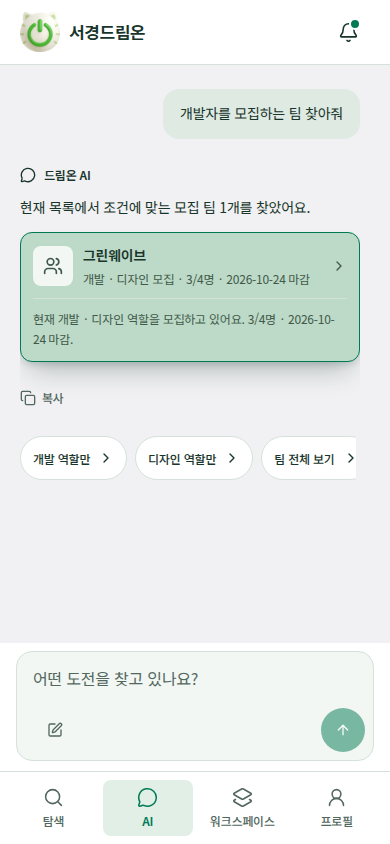
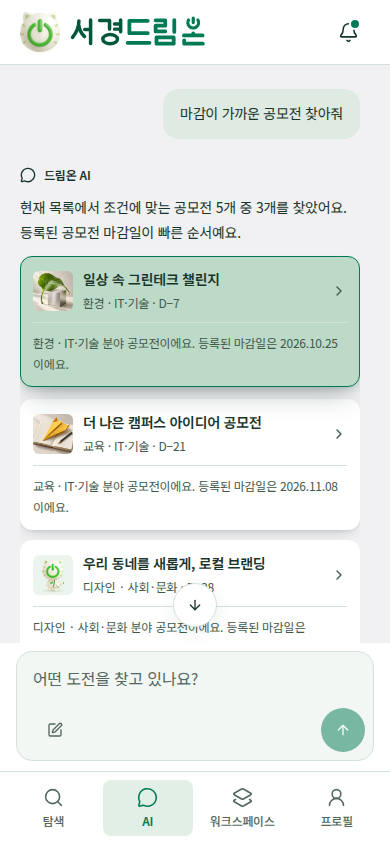
docs(design): update policy handoff and verified mobile references

diff --git a/docs/design/screens.md b/docs/design/screens.md
@@ -2,7 +2,7 @@
 
 경로의 공통 접두사는 `/design-preview`이며 로컬 기준 주소는 `http://127.0.0.1:5174`입니다. 경로의 모양이 제품의 최종 URL을 확정하지는 않습니다. 전체 화면 연결은 [라우트 원본](../../design-reference/src/pages/DesignPreviewPage.tsx), 공통 상단·하단 탐색은 [PreviewShell](../../design-reference/src/features/design-preview/PreviewShell.tsx)에서 확인합니다.
 
-프로필 전체 공개·지원 팀장 예외와 AI 로그인 전용 정책은 [정책 문서 PR #75](https://github.com/wejo-team/sku-dreamon/pull/75)에 정리되어 있으며 아직 병합 전입니다. 아래 화면은 그 정책을 반영한 참고 구현으로, 실제 제품 개발의 선행 정책 검토로 함께 확인합니다.
+[선행 문서 PR #93](https://github.com/wejo-team/sku-dreamon/pull/93)과 [#77 최신 결정](https://github.com/wejo-team/sku-dreamon/issues/77#issuecomment-6260435650)의 정책을 기준으로 화면을 갱신합니다. 아래 내용은 현재 저장소의 참고 구현과 확인할 동작이며, 서버·실제 AI·영구 저장 또는 배포 검증 완료를 뜻하지 않습니다.
 
 탐색·AI·워크스페이스·내 프로필 보기의 루트 제목은 하단 탐색과 중복되므로 `h1.sr-only`로 유지하고 화면 공간은 사용하지 않습니다. 공모전·팀·지원자 상세 제목과 `프로필 수정` 제목은 표시합니다. 로그인 안내와 필요한 복귀 링크도 유지합니다.
 
@@ -10,22 +10,22 @@
 
 | 화면·경로 | 코드 원본 | 구현할 정책·완료 조건 |
 | --- | --- | --- |
-| 로그인·가입 `/login`, `/signup` | [AccountPages](../../design-reference/src/features/design-preview/AccountPages.tsx) | [인증 AC-04~14](../specs/authentication.md#acceptance-criteria): 자체 로그인·교내 미인증·로그인 후 행동·접근 권한. 레퍼런스 로그인은 모의 동작 |
-| 공모전 탐색 `/explore` | [ExplorePages](../../design-reference/src/features/design-preview/ExplorePages.tsx), [ExploreFilters](../../design-reference/src/features/design-preview/ExploreFilters.tsx) | [공고 명세](../specs/contests.md): 왼쪽 세로 포스터·D-day, 오른쪽 제목·분야·주최자와 우하단 팀 아이콘·모집 중 팀 수. 카드 전체로 상세 이동. 검색·필터·번호 페이지·빈 결과, 분야는 아이콘으로 여는 Drawer에서 선택·적용 |
-| 공모전 상세 `/contests/:contestId` | [ExplorePages](../../design-reference/src/features/design-preview/ExplorePages.tsx) | [공고 공개·참가·마감 정책](../specs/contests.md): 원문·참가 방식·인원·일정·제출물·미확인 정보, 해당 공모전의 팀을 상세 안에 바로 표시. 생성(+)/AI 아이콘, 열린 공고의 빈 팀 안내, 마감 시 생성·AI 숨김 |
+| 로그인·가입 `/login`, `/signup` | [AccountPages](../../design-reference/src/features/design-preview/AccountPages.tsx) | [인증 완료 조건](../specs/authentication.md#acceptance-criteria): 아이디 4~24자 ASCII 소문자/숫자 정규화, 비밀번호 NFC 15~128자·공백 보존·보기/숨기기·붙여넣기. 교내 미인증·접근 권한; 실제 계정 발급은 없음 |
+| 공모전 탐색 `/explore` | [ExplorePages](../../design-reference/src/features/design-preview/ExplorePages.tsx), [ExploreFilters](../../design-reference/src/features/design-preview/ExploreFilters.tsx) | [공고 명세](../specs/contests.md): 왼쪽 세로 포스터·D-day, 오른쪽 제목·분야·주최자와 우하단 팀 아이콘·모든 연결 팀 수. 카드 전체로 상세 이동. 검색·필터·번호 페이지·빈 결과, 분야는 아이콘으로 여는 Drawer에서 선택·적용 |
+| 공모전 상세 `/contests/:contestId` | [ExplorePages](../../design-reference/src/features/design-preview/ExplorePages.tsx) | [공고 공개·참가·마감 정책](../specs/contests.md): 원문·참가 대상·최소/최대 인원·일정·제출물·미확인 정보, 해당 공모전의 팀을 상세 안에 바로 표시. 생성(+)/AI 아이콘, 열린 공고의 빈 팀 안내, 마감 시 생성·AI 숨김 |
 | 팀 탐색 `/explore?tab=teams` | [ExplorePages](../../design-reference/src/features/design-preview/ExplorePages.tsx) | [팀 AC-01](../specs/team-recruitment.md#acceptance-criteria): 모집 역할·정원·상태·공모전별 탐색과 번호 페이지 |
 | 공개 모집글 `/teams/:teamId` | [WorkspacePages](../../design-reference/src/features/design-preview/WorkspacePages.tsx) | [팀 AC-03~07·15·18·26](../specs/team-recruitment.md#acceptance-criteria): 지원·필수 프로필 보완·메시지·마감·중복·취소 후 재지원 |
-| 팀 만들기 `/teams/new` | [CreateTeamPage](../../design-reference/src/features/design-preview/CreateTeamPage.tsx), [ContestPicker](../../design-reference/src/features/design-preview/ContestPicker.tsx) | [팀 AC-02·13·16·22~24](../specs/team-recruitment.md#acceptance-criteria): 공모전 검색 선택, 목표·역할·팀장 포함 정원·마감·공식 인원 범위·개인 전용 준비 팀 |
+| 팀 만들기 `/teams/new` | [CreateTeamPage](../../design-reference/src/features/design-preview/CreateTeamPage.tsx), [ContestPicker](../../design-reference/src/features/design-preview/ContestPicker.tsx) | [팀 생성·정원 정책](../specs/team-recruitment.md#acceptance-criteria): 공모전 검색 선택, 팀명 2~40자·소개 10~1,000자·역할 1~6개, 모든 팀의 공식 인원 범위. 분야는 공모전 상속, 범위 정원 기본값 없음, 정원 1명은 역할/추가 모집 생략. 준비 모임 예외 없음 |
 | 워크스페이스 `/workspace` | [WorkspacePages](../../design-reference/src/features/design-preview/WorkspacePages.tsx) | [팀 공간 접근](../specs/team-recruitment.md#team-workspace-access): 본인이 팀장이거나 현재 확정 팀원인 팀과 빈 상태. 내 팀·내 지원 콘텐츠 제목과 개수, 작업 아이콘을 한 줄에 배치하고 팀 카드 전체를 눌러 팀 공간 이동 |
 | 내 지원 `/workspace?view=applications` | [WorkspacePages](../../design-reference/src/features/design-preview/WorkspacePages.tsx) | [팀 AC-04·17~18](../specs/team-recruitment.md#acceptance-criteria): 현재 지원 상태·선발 후 취소·자리 반환·재지원 |
 | 팀 공간 `/teams/:teamId?view=space` | [WorkspacePages](../../design-reference/src/features/design-preview/WorkspacePages.tsx) | [팀 AC-09·13·20·25](../specs/team-recruitment.md#acceptance-criteria): 팀장·현재 팀원만 접근, 확정 인원·남은 자리·공고·모집 상태 |
 | 지원자 관리 `/teams/:teamId?view=applicants` | [WorkspacePages](../../design-reference/src/features/design-preview/WorkspacePages.tsx) | [팀 AC-05·14·16](../specs/team-recruitment.md#acceptance-criteria): 해당 팀장만 실제 지원자 검토·선발. 선발 성공 즉시 팀원 확정 |
 | 지원자 검토 `/applicants/:applicantId` | [WorkspacePages](../../design-reference/src/features/design-preview/WorkspacePages.tsx) | [프로필 공개 정책](../specs/profile.md#visibility), [팀 선발 정책](../specs/team-recruitment.md#membership-capacity): 지원한 팀장이 공개 상태와 관계없이 전체 현재 프로필을 확인. 일반 팀원은 이 예외를 갖지 않음 |
-| 내 프로필 `/profile` | [AccountPages](../../design-reference/src/features/design-preview/AccountPages.tsx), [ProfileFields](../../design-reference/src/features/design-preview/ProfileFields.tsx) | [프로필 AC-01·06·20~25](../specs/profile.md#acceptance-criteria): 학사·역량·경험·시간 입력, 단일 포트폴리오 URL·제목, 전체 프로필 공개 스위치와 전환 확인, 선택형 마스코트 이미지 |
+| 내 프로필 `/profile` | [AccountPages](../../design-reference/src/features/design-preview/AccountPages.tsx), [ProfileFields](../../design-reference/src/features/design-preview/ProfileFields.tsx) | [프로필 완료 조건](../specs/profile.md#acceptance-criteria): 학적·학년 선택, 이름/소개/경험/제목 길이·관심/역할 개수, 기타 제거, 주당 합산 시간 4구간 단일 선택, 전체 공개 전환 확인·기존 지원자 최신 프로필 검토, 선택형 마스코트 |
 | 본인 공개 화면 확인 `/profile/public` | [AccountPages](../../design-reference/src/features/design-preview/AccountPages.tsx) | [사람 탐색과 공개 설정](../specs/profile.md#people-directory): 본인이 설정한 공개 결과 확인 |
-| 사람 탐색·상세 `/explore?tab=people`, `/people/:personId` | [ExplorePages](../../design-reference/src/features/design-preview/ExplorePages.tsx) | [프로필 AC-08~12·23~24](../specs/profile.md#acceptance-criteria): `함께할 사람`에서 로그인 후 공개 프로필 검색·번호 페이지·전체 등록 항목 열람. 비공개 프로필의 일반 검색·AI 결과·직접 상세 접근 제외. 지원자 관계와 구분 |
-| AI `/ai` | [AiChatPage](../../design-reference/src/features/design-preview/AiChatPage.tsx) | [LLM 추천 AC-16~25](../specs/matching.md#acceptance-criteria): 로그인 후 자연어 입력·결과·후속 조건·중단·실패·재시도·빈 결과. 실제 LLM은 미구현 |
-| 상단 알림함 · 별도 경로 없음 | [Notifications](../../design-reference/src/features/design-preview/Notifications.tsx) | [알림 AC-01~06](../specs/notifications.md): 읽음·미읽음·모두 읽음·소유 관계·관련 화면 이동 |
+| 사람 탐색·상세 `/explore?tab=people`, `/people/:personId` | [ExplorePages](../../design-reference/src/features/design-preview/ExplorePages.tsx) | [사람 탐색 공개 정책](../specs/profile.md#acceptance-criteria): `함께할 사람`에서 로그인 후 공개 프로필 검색·번호 페이지·전체 등록 항목 열람. 비공개 프로필의 일반 검색·AI 결과·직접 상세 접근 제외. 지원자 관계와 구분 |
+| AI `/ai` | [AiChatPage](../../design-reference/src/features/design-preview/AiChatPage.tsx) | [LLM 추천 완료 조건](../specs/matching.md#acceptance-criteria): 로그인 후 메시지 최대 1,000자·답변 카드 합계 최대 3개·추가 요청·중단·실패·재시도·빈 결과. 기존 지원자 최신 검토와 일반 사람 추천 권한 구분. 실제 LLM은 미구현 |
+| 상단 알림함 · 별도 경로 없음 | [Notifications](../../design-reference/src/features/design-preview/Notifications.tsx) | [알림 완료 조건](../specs/notifications.md): 업무 변경별 생성·중복 방지·이전 이력·읽음·모두 읽음·수신자 관계·관련 화면 이동·뒤로 가기로 닫기. 마감 알림 제외 |
 | 시작·없는 경로 `/loading`, 정의되지 않은 주소 | [LoadingPage](../../design-reference/src/features/design-preview/LoadingPage.tsx), [라우트](../../design-reference/src/pages/DesignPreviewPage.tsx) | 시작 안내와 찾을 수 없는 대상·경로에서 탐색으로 돌아가기 |
 
 UI에서 확인할 수 있는 흐름과 명세 전체의 구현 완료는 다릅니다. 특히 API 오류·서버 권한·동시 선발·영구 저장은 레퍼런스의 로컬 상태만으로 검증되지 않습니다.
@@ -44,18 +44,20 @@ UI에서 확인할 수 있는 흐름과 명세 전체의 구현 완료는 다릅
 | 프로필 공개 → 미리보기 | 상단 `공개`/`비공개` 스위치의 접근성 이름은 `프로필 공개`. 양방향 전환에서 검색·전체 항목 노출과 지원 팀장 예외를 설명하는 Drawer를 열고 `공개로 전환`/`비공개로 전환` 확인 후 저장. 취소·Escape·바깥 닫기는 기존 상태 유지. 눈 아이콘의 `공개된 모습 보기`는 `/profile/public`으로 이동하며 비공개 상태도 그대로 보여줌 |
 | 프로필 이미지 선택 | 큰 장식 제목을 두지 않고 `마음에 드는 파워프렌즈를 골라보세요.`를 작은 설명으로 표시. `프로필 이미지 변경` Drawer 제목은 `sr-only`로 유지하며 선택·적용·취소와 포커스 복귀 확인 |
 | 학교 인증 안내 | 내 프로필의 빨간 `교내 미인증` 배지를 누르면 미제공 기능 안내 Drawer 표시. 확인·Escape·바깥 영역 닫기와 배지 포커스 복귀 제공. 파란 `교내 인증` 배지 스타일은 후속 인증 상태용으로 준비하며 현재 계정에 인증을 부여하지 않음 |
-| 지원 → 내 지원 | 로그인 안내, 필수 프로필 보완 후 원래 흐름 복귀, 선택 메시지, 중복·마감·정원 부족, 접수 후 현재 지원 표시 |
-| 팀장 검토 → 선발 | 해당 팀장 권한, 비공개라도 등록한 전체 현재 프로필 표시, 지원 메시지의 본인·지원 팀장 제한, 일반 팀원의 비공개 프로필 접근 제한, 선발 즉시 멤버 반영·남은 자리 감소, 마지막 자리·공모전별 소속 제한 |
+| 지원 → 내 지원 | 로그인·공개 필수·필수 프로필 점검. 비공개는 공개 범위 팝업 확인·저장 후 조건 재확인, 자동 지원 없음. 학적/학년은 선택, 자격 정보 부족은 원문 확인 안내 후 일반 접수. 선택 메시지 1,000자와 중복·마감·정원·소속 제한 유지 |
+| 팀장 검토 → 선발 | 해당 팀장 권한, 비공개라도 등록한 전체 현재 프로필 표시, 최신 프로필 기반 AI 검토와 지원 메시지의 본인·지원 팀장 제한, 일반 팀원의 비공개 접근 제한, 선발 즉시 멤버 반영·남은 자리 감소, 마지막 자리·공모전별 소속 제한 |
 | 선발 후 취소 → 재지원 | 팀 공간 접근 종료·자리 반환, 과거 선발 복원 없이 새 지원, 현재 모집 종료·정원 조건 재확인 |
 | AI → 추천 카드 → 상세 | 로그인 후에만 대화·입력·결과 제공. 비로그인 직접 주소·로그아웃 뒤에는 로그인 안내이며 이전 대화·입력 제거. 준비 중·중단·오류·재시도·결과 없음, 공개 정보 제한, 다시 돌아왔을 때 대화 유지. 이전 카드 표시·복사에도 현재 공개 범위·모집 상태·마감·정원 반영, 입력창과 하단 영역의 겹침 |
-| AI → 새 대화 | 입력창 왼쪽 도구 아이콘으로 시작. 접근성 이름·title은 `새 대화`, `type="button"`으로 전송과 분리하며 대화·입력 초안 초기화 동작 유지 |
-| 알림 → 관련 화면 | 알림함 열기만으로 읽음 처리하지 않음, 개별/모두 읽음, 빈 상태, 비로그인에 개인 항목 비노출. 읽음 실패 시 개수와 미읽음 상태 유지, 같은 동작 재시도 후 관련 화면 이동 |
+| AI → 새 대화 | 입력창 왼쪽 도구 아이콘으로 시작. 접근성 이름·title은 `새 대화`, `type="button"`으로 전송과 분리하며 대화·입력 초안 초기화 동작 유지. 과거 대화 목록·검색·다시 열기 없음 |
+| 알림 → 관련 화면 | 지원 상태 변경/신규 지원 두 계열. 성공한 업무 변경에서 수신자별 한 번 생성, 재시도 중복 없음, 다음 변경은 새 미읽음으로 추가·이전 읽음 유지. 열기만으로 읽음 처리하지 않음. 뒤로 가기·닫기는 알림함만 닫기, 항목 클릭은 최신 권한 재확인. 실패 시 읽음·개수 유지 후 재시도 |
 
 반응형 확인은 320px·390px·430px 모바일 폭을 기준으로 합니다. 팝업 포커스·닫기·키보드, 긴 제목·설명, 큰 글꼴, 안전 영역과 세로 스크롤을 함께 검토합니다. 테스트 결과·스크린샷은 검증한 커밋과 함께 PR에 연결합니다.
 
-공개 사람 상세·본인 공개 미리보기·지원자 상세의 등록 항목은 [ProfileDetails](../../design-reference/src/features/design-preview/ProfileDetails.tsx)를 함께 참고합니다. 학사 정보·관심·역량·경험·자기소개·활동 가능 시간·포트폴리오 URL/제목을 같은 정보 계층으로 표시합니다. 인증 정보나 미수집 연락처를 공개 항목으로 추가하지 않습니다. 비공개 프로필도 지원받은 팀장은 전체 현재 정보를 보지만 일반 검색에 포함하지 않으며, 실제 LLM에 비공개 데이터를 전송하는 권한을 뜻하지 않습니다.
+공개 사람 상세·본인 공개 미리보기·지원자 상세의 등록 항목은 [ProfileDetails](../../design-reference/src/features/design-preview/ProfileDetails.tsx)를 함께 참고합니다. 학사 정보·관심·역량·경험·자기소개·주당 참여 가능 시간·포트폴리오 URL/제목을 같은 정보 계층으로 표시합니다. 인증 정보나 미수집 연락처를 공개 항목으로 추가하지 않습니다. 기존 지원을 받은 팀장은 비공개 전환 후에도 전체 현재 프로필을 직접 보고 해당 지원의 AI 검토에 최신 정보를 반영할 수 있습니다. 일반 검색·AI 사람 추천에는 제외하며 지원서·요약·과거 공개 정보로 우회 노출하지 않습니다. 실제 모델 입력 필드·보존/삭제 방식은 후속 설계입니다.
 
-공모전 탐색 카드는 왼쪽 40%를 세로 포스터 영역으로 사용하고 이미지 아래에 별도 문구를 두지 않습니다. 원본 이미지를 자르지 않으며 제목이 길어지면 카드 높이를 늘립니다. 오른쪽은 제목·분야·주최자 순으로 배치하고 우하단의 팀 아이콘·숫자로 현재 모집 중인 팀 수를 표시합니다. 접근성 이름에는 `모집 중인 팀 N개`를 포함합니다. 별도 상세보기 문구·화살표, 참가 대상·접수 마감 정보 행은 두지 않습니다. D-day는 포스터 위에 유지하고 정확한 마감일·참가 대상은 상세에서 확인합니다. 카드 전체의 클릭·키보드 이동과 녹색 hover·포커스·누름 상태를 유지합니다.
+프로필의 주당 시간은 모든 참여 프로젝트 합산 참고값이며 네 구간(`5시간 미만`, `5~10시간 미만`, `10~20시간 미만`, `20시간 이상`) 중 단일 선택입니다. 미입력은 최저 구간과 구분하며 팀별 약속·잔여 시간이 아닙니다. 학적·학년은 선택, 관심 1~3개·역할 1~2개, 이름 50자·소개 300자·경험 500자·포트폴리오 제목 50자를 검증하고 초과 입력을 보존합니다. 기타와 보충 입력은 제거합니다. 학사 종속값은 같은 관계의 유효값을 유지하고 다른 소속 관계의 값만 초안에서 비우며 취소하면 이전 저장값을 유지합니다. 실제 학사 식별자·관계 전수 검증은 별도입니다.
+
+공모전 탐색 카드는 왼쪽 40%를 세로 포스터 영역으로 사용하고 이미지 아래에 별도 문구를 두지 않습니다. 원본 이미지를 자르지 않으며 제목이 길어지면 카드 높이를 늘립니다. 오른쪽은 제목·분야·주최자 순으로 배치하고 우하단의 팀 아이콘·숫자로 모집 상태와 관계없이 공모전에 연결된 모든 팀 수를 표시합니다. 접근성 이름에는 `연결된 팀 N개`를 포함합니다. 별도 상세보기 문구·화살표, 참가 대상·접수 마감 정보 행은 두지 않습니다. D-day는 포스터 위에 유지하고 정확한 마감일·참가 대상은 상세에서 확인합니다. 카드 전체의 클릭·키보드 이동과 녹색 hover·포커스·누름 상태를 유지합니다.
 
 키·값 정보는 공모전 상세, 팀 목록·공간, 내 프로필·공개 프로필·지원자 검토에서 같은 [정보 계층](tokens.md)을 사용합니다. 워크스페이스 팀 카드는 내 역할과 확정 인원/정원으로 요약하고, 중복되는 `팀장 포함 총 N명` 안내는 생략합니다. 요약 옆 화살표는 별도 버튼이 아니며 카드 링크의 일부입니다. 팀 만들기·모집 상세의 정원 안내와 팀장 포함 정원 계산 정책은 유지합니다.
 
@@ -68,16 +70,16 @@ UI에서 확인할 수 있는 흐름과 명세 전체의 구현 완료는 다릅
 | 항목 | 결정 원본 |
 | --- | --- |
 | LLM 모델·제공자·검색·실행·검증·API·저장·캐시·운영 제한 | [MATCH-12](../specs/matching.md#open-questions) |
-| 비공개 정보의 모델 전송·추천 사용, 대화 보존·삭제·철회 후 재노출 방지 | [MATCH-10·13](../specs/matching.md#open-questions) |
-| 미확인 자격의 실제 접수, 상태별·마감 후 기존 지원자 추천 | [MATCH-01·08](../specs/matching.md#open-questions), [TEAM-06](../specs/team-recruitment.md#open-questions) |
-| 계정 탈퇴의 세션·열람 효력·보존·복구, 조건부 학사 필수 기준 | [PROFILE-03·04](../specs/profile.md#open-questions) |
+| 기존 지원자 AI 검토의 실제 입력 필드·모델 전송 최소화, 대화 보존·삭제·일반 추천 우회 노출 방지 | [MATCH-10·13](../specs/matching.md#open-questions) |
+| 확인된 자격 미충족의 상세 판정·제출 제한과 자격 조건 변경의 기존 지원 영향 | [MATCH-08](../specs/matching.md#open-questions), [TEAM-06](../specs/team-recruitment.md#open-questions) |
+| 계정 탈퇴의 세션·열람 효력·보존·복구, 팀 생성/개인화 추천의 프로필 완성 범위 | [PROFILE-03·04](../specs/profile.md#open-questions) |
 | 미선발 처리·선발 취소·팀장 위임·모집 재개·모집 정보 수정 범위 | [TEAM-02~08](../specs/team-recruitment.md#open-questions) |
-| 운영자 공고 수집·검수·등록 도구, 공고 요약 포함 여부, 날짜만 있는 마감 시각 | [공고 미정 사항](../specs/contests.md#open-questions) |
-| 실제 학사 운영 목록·코드·선택지 보충 설명·경험 분류 | [학사 명세](../specs/academic-structure.md), [선택지 미정 사항](../specs/profile-options.md#open-questions) |
-| 로그인 세션·보안·복구 세부 | [인증 미정 사항](../specs/authentication.md#open-questions) |
-| 알림 저장·중복·기기 동기화·보존 | [알림 미정 사항](../specs/notifications.md) |
+| 운영자 공고 수집·검수·등록 도구, 공고 요약 포함 여부, 공개 후 변경 재확인·운영 갱신 | [공고 미정 사항](../specs/contests.md#open-questions) |
+| 실제 학사 운영 목록·코드·관계, 기타/기존 시간 데이터 전환·구간 저장 ID | [학사 명세](../specs/academic-structure.md), [선택지 미정 사항](../specs/profile-options.md#open-questions) |
+| 로그인 세션·보안·복구·실제 유출 비밀번호 차단 목록 공급·갱신 | [인증 미정 사항](../specs/authentication.md#open-questions) |
+| 확정된 알림 중복 규칙의 저장·원자성·재시도 구현, 기기 동기화·보존 | [알림 미정 사항](../specs/notifications.md) |
 
-팀장이 선발하면 즉시 팀원 확정, 팀장 포함 총 정원, 선발 시 자리 차감, 취소 후 자리 반환·현재 조건에 따른 즉시 재지원은 이미 정해진 정책입니다. 이를 별도 수락 대기나 새 TBD로 되돌리지 않습니다.
+팀장이 선발하면 즉시 팀원 확정, 팀장 포함 총 정원, 선발 시 자리 차감, 취소 후 자리 반환·현재 조건에 따른 즉시 재지원은 이미 정해진 정책입니다. 학적·학년 선택, 정보 부족 시 원문 안내 후 일반 지원, 신규 지원 공개 필수, 모집 마감/정원 충족 후 기존 지원자 AI 검토도 확정됐습니다. 새 선발 후보는 유효한 지원 완료·검토 중만 포함합니다. 이를 별도 수락/자격 확인 대기나 새 TBD로 되돌리지 않습니다.
 
 ## 재현 경로
 
@@ -90,12 +92,12 @@ UI에서 확인할 수 있는 흐름과 명세 전체의 구현 완료는 다릅
 - `/workspace?view=applications`: 기존 선발된 로컬 크루 지원 취소·접근 종료 확인.
 - `/reference/notices/campus`, `/reference/portfolios/seoyeon`: 실제 기관·개인 사이트를 대신하는 로컬 링크 목적지.
 
-모든 경로에 `/design-preview` 접두사를 붙입니다. 날짜는 레퍼런스의 수명이 지나도 검토할 수 있도록 2026-10-18에 고정한 예시이며 운영 마감 시각 정책이 아닙니다. 모집 종료 후 기존 지원자의 선발·추천은 정책 TBD이므로 이 레퍼런스에서 모델링하지 않습니다. 신규 지원의 마감 제한과 구분해 구현해야 합니다.
+모든 경로에 `/design-preview` 접두사를 붙입니다. 현재 시각은 재현을 위해 2026-10-18로 고정한 예시이며 실제 운영 시계가 아닙니다. 마감 계산은 원문 시각·시간대를 우선하고, 누락 시 한국시간·해당 날짜 종료(다음 날 00:00)를 사용하며 서비스 보완 안내를 표시합니다. 기존 지원자의 AI 검토 결과 확인·재요청은 마감/정원 충족 후에도 허용하고 신규 지원·정원 초과 선발 제한과 구분합니다. 마감 후 실제 추가 선발 허용 범위는 팀 명세의 남은 정책을 따릅니다.
 
 ## 페이지 이동과 공모전별 팀 목록
 
 탐색의 세 탭은 [ListPagination](../../design-reference/src/features/design-preview/ListPagination.tsx)과 [useListPage](../../design-reference/src/features/design-preview/use-list-page.ts)를 함께 사용합니다. `page`로 번호를 유지하며 총결과 수는 현재 조건과 열람 범위를 적용한 수입니다. 비로그인의 사람 탭에는 결과 수·페이지 조작을 노출하지 않습니다. 검색·필터 적용·정렬·탭·초기화는 1페이지로 돌아갑니다. 0건이면 페이지 조작을 숨기고, 1페이지뿐이면 현재 번호와 비활성 이전/다음만 표시합니다. 운영 API·DB의 페이징/집계 구현은 별도입니다.
 
-공모전 상세의 `함께할 팀`에는 현재 공모전과 연결된 공개 팀을 직접 표시합니다. [TeamCard](../../design-reference/src/features/design-preview/TeamCard.tsx)를 탐색과 공유하고, 상세 안에서는 중복 공모전명을 생략합니다. 팀이 6개를 넘으면 `teamPage`로 페이지를 나누고 팀 모집글에서 복귀할 때 원래 공모전·팀 페이지·탐색 복귀 경로를 유지합니다. 카드 상태 배지는 워크스페이스와 같은 정원·기한 판정을 사용하지만, 기존 탐색의 모집중만 필터·공모전 카드 집계는 상태값 기준이라는 제한이 남습니다.
+공모전 상세의 `함께할 팀`에는 현재 공모전과 연결된 공개 팀을 직접 표시합니다. [TeamCard](../../design-reference/src/features/design-preview/TeamCard.tsx)를 탐색과 공유하고, 상세 안에서는 중복 공모전명을 생략합니다. 팀이 6개를 넘으면 `teamPage`로 페이지를 나누고 팀 모집글에서 복귀할 때 원래 공모전·팀 페이지·탐색 복귀 경로를 유지합니다. 모집 중 표시는 모집 중/지원자 검토 상태이면서 공고·팀 모집 기한 안에 있고 잔여 정원이 있는 경우로 판단합니다. 이 판정은 탐색 필터와 카드 상태에 공통 적용하며 개인 참가 자격 충족을 뜻하지 않습니다. 공모전 카드의 연결 팀 수는 이 모집 판정으로 줄이지 않습니다.
 
-팀 찾기 버튼을 없애고 팀 영역 오른쪽에 AI·생성(+) 아이콘을 둡니다. 생성은 현재 공모전을 미리 선택하며, AI는 로그인 전용 대화로 이동합니다. 공모전 조건을 자동 전송하지 않습니다. 열린 공고에 팀이 없으면 첫 팀 생성을 권하고, 개인 전용이면 준비 모임으로 안내합니다. 마감 공고는 기존 팀·공고 열람만 허용하며 생성·AI 아이콘과 생성 권유는 표시하지 않습니다.
+팀 찾기 버튼을 없애고 팀 영역 오른쪽에 AI·생성(+) 아이콘을 둡니다. 생성은 현재 공모전을 미리 선택하며, AI는 로그인 전용 대화로 이동합니다. 공모전 조건을 자동 전송하지 않습니다. 접수 중인 공고에 팀이 없으면 첫 팀 생성을 권합니다. 공식 인원이 1명이면 정원 1명의 팀으로 생성하며 준비 모임 예외를 제공하지 않습니다. 접수 예정/마감 공고는 기존 팀·공고를 열람하고 생성·AI 아이콘을 숨깁니다. 접수 예정은 시작 후 생성을 안내하고 마감은 생성 권유를 표시하지 않습니다.

diff --git a/docs/design/verification.md b/docs/design/verification.md
@@ -1,138 +1,64 @@
 # 공식 디자인 검증 기록
 
-2026-10-19에는 프로필의 항목별 공개 설정을 하나의 공개·비공개 상태로 통합하고, 전환 전에 설명·확인 팝업을 제공합니다. 공개이면 로그인한 사용자가 등록된 모든 항목을 확인하고, 비공개이면 일반 검색·AI 사람 탐색·일반 상세 주소에서 제외합니다. 지원받은 팀장은 공개 상태와 관계없이 전체 현재 프로필을 확인합니다. 정책 변경은 병합 전인 [문서 PR #75](https://github.com/wejo-team/sku-dreamon/pull/75)에 정리되어 있습니다.
+2026-10-19 [#77의 확정 정책](https://github.com/wejo-team/sku-dreamon/issues/77#issuecomment-6260435650)을 명세 → 디자인 순서로 반영했습니다. 정책 원본은 [문서 PR #93](https://github.com/wejo-team/sku-dreamon/pull/93), 실행 가능한 디자인은 [PR #74](https://github.com/wejo-team/sku-dreamon/pull/74)입니다. 정확한 소스 커밋·배포 버전과 남은 차이는 [명세 대조 기록](../specs/prototype-alignment.md)에서 관리합니다.
 
-AI는 로그인 후에만 이용하며 공모전·팀·사람 검색창 모두에 진입 아이콘을 둡니다. 워크스페이스의 모집 중 배지는 녹색, 모집 마감·정원 마감 배지는 회색으로 구분합니다. 프로필 이미지 선택창은 큰 장식 제목 대신 작은 설명을 사용하고, 접근성용 제목과 선택·적용·취소 동작을 유지합니다. 회색 화면 배경·흰 기본 카드·녹색 선택 상태와 기존 상단 공간 정리는 유지합니다.
+화면에 표시되는 데이터와 AI 응답은 로컬 예시입니다. 아래 검증은 공식 모바일 디자인과 상태 전이에 대한 결과이며 제품 인증·API·DB·LLM 구현 완료를 뜻하지 않습니다.
 
-재생성 가능한 검증 원본은 [탐색 테스트](../../design-reference/src/features/design-preview/ExplorePages.test.tsx)·[프로필 테스트](../../design-reference/src/features/design-preview/AccountPages.test.tsx)와 [브라우저 검사 스크립트](../../design-reference/scripts/reference-check.cjs)이며, 화면은 같은 변경 PR에 포함된 코드 기준입니다.
+## 정책 반영과 불일치 수정
+
+| 영역 | 반영·검증한 동작 |
+| --- | --- |
+| 공모전 | 분야 최대 3개·대표 분야 없음, 참가 대상 4분류, 접수 예정/중/마감, 원문 시간대·시각 우선과 KST/날짜 끝 보완 안내. 카드 숫자는 연결된 **모든 팀**이며 모집 필터는 상태·기한·남은 정원을 함께 확인 |
+| 팀 생성 | 공식 고정 인원/범위/상한 없음에 맞는 정원, 범위 입력의 임의 기본값 제거, 1명인 팀은 역할·추가 모집 생략, 2명 이상은 역할 1~6개, 분야는 공모전 상속. 준비 모임 예외 제거 |
+| 프로필 | 학적·학년 선택, 관심 1~3개·역할 1~2개·목록 내 역량, 기타 제거, 경험 3상태·본문 500자. 주당 시간은 모든 프로젝트 합산 4구간이며 미입력과 최저 구간 구분 |
+| 입력 | 이름·소개·경험·포트폴리오 제목·팀명·팀 소개·지원 메시지 길이, 초과 붙여넣기 원문 보존과 필드 오류. 학사 종속값은 편집 초안에서 처리하고 취소 시 저장값 유지 |
+| 공개·지원 | 비공개 신규 지원 차단, 공개 전환 설명·확인 후 별도 지원 제출. 비공개 전환 후 기존 지원·소속 유지, 일반 검색·AI 사람 추천 제외, 지원받은 팀장에게 현재 전체 프로필·AI 검토 허용 |
+| 지원·검토 | 본인이 제출한 메시지 다시 보기, 최신 프로필 기반 검토 요청·실패·재시도, 마감·정원 충족 후에도 기존 지원 검토 가능. 선발/미선발/취소는 새 후보에서 제외, 선발 즉시 팀원·정원 반영 |
+| 검토 결과 | 현재 세션의 화면 이동 후 결과 유지, 로그아웃 시 제거. 입력 정보가 바뀌면 이전 검토 결과임을 표시하고 재요청으로 갱신. 과거 결과를 자동으로 새 결과처럼 바꾸지 않음 |
+| 인증 | 아이디 ASCII 영문 소문자·숫자 4~24자, 대문자/주변 공백 정규화, 밑줄·하이픈 금지. 비밀번호 NFC·15~128 코드 포인트·공백 보존·보기/숨기기. 공개 UI 테스트 계정은 인계 문서 참고 |
+| AI 대화 | 로그인 전용, 메시지 1,000자 초과 보존·오류, 답변당 최대 3개·추가 요청. 본인/소속 팀·유효 중복 지원 팀 제외, 이전 추천 표시·복사에 현재 공개 범위·모집 조건 재검사 |
+| 알림 | 지원 상태/신규 지원 두 종류의 실제 성공 전이별 기록. 이전 상태·읽음 보존, 재시도 중복 방지, 새 발생건은 새 미읽음. 브라우저 뒤로 알림함만 닫고 배경 경로 유지 |
 
 ## 실행 결과
 
 | 검사 | 결과 |
 | --- | --- |
-| 고정 의존성 `npm ci` | 이전 검증에서 성공. 이번에는 의존성 변경 없이 기존 설치를 사용했으며 재실행하지 않음 |
-| `npm test` | 최종 수정 후 9개 파일·133개 테스트 통과 |
-| ESLint·Prettier | 최종 수정 후 전체 검사 통과 |
-| TypeScript·production build | 최종 수정 후 통과, 단일 JS 청크 675.75kB. 500kB 초과 경고는 남아 있으며 제품 구현 시 분할·실제 네트워크 성능 검증 필요 |
-| `npm run check:ui` | 이번 변경에서 Chromium 320×844·390×844·430×844 통과. 기존 탐색·생성·프로필·지원·선발·AI·알림과 필터·워크스페이스 흐름 확인 |
-| 공개 전환·전체 프로필 | 별도 브라우저 320·375·390·430px에서 전환 설명·확인·취소·Escape·포커스 복귀 확인. 공개 프로필의 등록 항목·시간·포트폴리오 표시, 비공개의 일반 검색·직접 상세 차단, 지원 팀장의 전체 현재 프로필 열람 확인 |
-| AI 로그인·진입 | 같은 네 모바일 폭에서 비로그인 AI 접근 제한·로그인 후 복귀, 공모전·팀·사람 검색창의 AI 아이콘 확인. AI 대화는 로그인 후 제공하며 실제 LLM을 호출하지 않음 |
-| 모집 상태·프로필 이미지 | 같은 네 모바일 폭에서 모집 상태별 배경색과 문구, 마스코트 선택창의 작은 설명·접근성용 제목·선택과 취소 확인 |
-| 기존 연결·예외 흐름 | `check:ui`에서 비로그인 사람 차단, 마감 공고 읽기 전용, 프로필·팀 생성, 선발 즉시 팀원·정원 반영, AI 실패/재시도, 알림 실패/재시도 확인 |
-| 마스코트·기본 커버 | 5종 원본 PNG와 기본 스콘, 선택·취소·저장·공개 프로필 반영, 공모전 이미지 없음·로드 실패 fallback을 기존 브라우저 검사와 최신 재검사에서 확인 |
-| 키보드·작은 높이 | 320×568·667×375 가로 화면에서 공개 전환 팝업의 하단 버튼·취소 후 포커스 복귀, 마스코트 마지막 선택지·적용 버튼 접근 통과. 390×844에서 팝업 제목·설명을 CSS로 150% 확대해 배치 확인. 실제 기기 확대 검증은 아님 |
-| 색상 대비 | 모집 중 #164c35/#cce9d7은 7.65:1, 마감 #52525b/#e4e4e7은 6.09:1. 인증 배지 흰 글자는 미인증 빨강 6.57:1·인증 파랑 6.70:1. 주요 버튼·선택 탭 흰 글자 5.36:1. 카드 보조 글자 #40594a는 기본·hover·누름 면에서 7.65:1·5.07:1·4.61:1, 녹색 값 #00573a는 각각 8.66:1·5.74:1·5.22:1. 흰 조작 면의 기본 보조 글자는 6.07:1 |
-| 카드와 배경 | 배경 #f1f1f3 유지. 기본 카드 #ffffff, hover #bdd9c7·누름 #b2d0bd와 녹색 테두리·아래쪽 그림자 적용. 모집 상태 배지의 색을 달리해도 카드 전체의 기본 면은 유지 |
-| 정보 계층 | 키는 13px/500 보조색, 값은 16px/600 녹색, 긴 설명은 16px/400 본문 색상. 빈 역량 안내의 불필요한 굵기를 제거하고 긴 설명의 줄바꿈을 정리 |
-| 레퍼런스 화면 | 최신 브라우저 검사에서 모바일 가로 넘침·런타임 오류 없음. 기본 화면은 포인터를 카드 밖에 둔 상태로, hover는 별도 화면으로 기록 |
-| 독립 코드 검토 | 공개/비공개 조회·지원 팀장 예외·AI 로그인 범위에서 중요 발견 사항 없음. 서버 권한 검증을 대신하지 않음 |
-| 문서 | 최신 스크린샷을 포함한 원본 링크·앵커, VitePress 빌드·생성 링크·자산 검사 통과. 문서 도구는 변경하지 않음 |
+| Vitest | 14개 파일·201개 테스트 통과 (`npm test -- --maxWorkers=2`). 최초 동시 빌드·브라우저 검사 중 한 테스트 시간 초과가 있었고, 작업자 수를 제한한 전체 재실행에서 모두 통과 |
+| 정적 검사 | 전체 ESLint·Prettier·TypeScript 통과. 마지막 지원 메시지 펼침 아이콘 변경도 해당 파일 검사 및 빌드 통과 |
+| 프로덕션 빌드 | 성공. 500kB 이상의 단일 JS 청크 경고는 유지되며 제품 구현에서 분할·실제 네트워크 성능 검증 필요 |
+| 브라우저 | [검사 스크립트](../../design-reference/scripts/reference-check.cjs)로 Chromium 320×844·390×844·430×844 통과. 가로 넘침·런타임 오류 없음 |
+| 화면 연결 | 로그인 공개 범위, 마감 공고, 필터 적용/취소, 카드·기본 이미지, 마스코트·프로필 저장, 공개 확인 후 지원·비공개 후 기존 지원 유지, 본인 메시지, 지원자 AI 검토·선발·팀원 반영, 대화 재시도, 알림 읽음 실패/재시도·뒤로 닫기 |
+| 추가 모바일 검사 | 320·390px에서 주당 4구간 각각 저장/취소, 정원 1명 팀·상한 없는 27명 팀 생성, 가입 초과값/비밀번호 보기, AI 1,001자 보존·오류 확인 |
+| 독립 코드 검토 | 공모전/팀·프로필/인증·AI/알림 담당 분리 후 교차 검토. 이전 AI 결과와 현재 프로필이 섞여 보이는 문제를 발견해 변경 안내와 재검토 동작 보완 |
 
-브라우저 검사는 설치된 Playwright/Chromium을 환경 변수로 지정해 실행했습니다. 일반 설치·수동 실행 명령은 [인계 문서](handoff.md#verification-commands)를 따릅니다. 실제 기기의 키보드·보조 기술, 서버 권한, 다중 사용자 동시 선발, 영구 저장과 실제 LLM 품질은 검증 대상이 아닙니다. 이 결과는 기능 명세 AC의 제품 구현 완료를 의미하지 않습니다.
+설치된 Chromium을 `CHROMIUM_PATH`, 로컬 브라우저 의존성을 `LD_LIBRARY_PATH`로 지정했습니다. 첫 실행의 브라우저 버전·라이브러리 경로 오류를 해결한 뒤 상호작용 검사를 수행했습니다. 일반 실행법은 [인계 문서](handoff.md#verification-commands)를 따릅니다.
 
-## UI/UX 점검
+## UI/UX 확인
 
-`ui-ux-pro-max` 기준으로 접근성·터치 조작·상태 구분·정보 계층·모바일 배치를 확인했습니다. 점검에서 발견한 문제와 반영한 변경은 다음과 같습니다.
+`ui-ux-pro-max`의 입력 오류·명확한 상태·터치 영역·정보 계층 기준을 적용했습니다. 기존 회색 배경·흰 카드·녹색 선택 상태·서비스명과 마스코트를 유지했습니다. 초과 입력을 잘라 버리지 않고 오류와 원문을 함께 보여 주며, 공개 전환은 확인 전에 저장하지 않습니다. 제출 메시지는 화살표가 있는 펼침 조작으로 다시 볼 수 있습니다. AI 길이 오류와 입력창 포커스 외곽선이 겹친 문제는 위쪽 안쪽 여백으로 수정했고, 320·390px에서 글자가 외곽선 아래·하단 내비게이션 위에 표시됨을 다시 확인했습니다.
 
-| 발견 사항 | 반영 |
+모바일 스크린샷에서 공개 전환 설명·하단 버튼, 좁은 화면의 폼 선택지·카운터, 지원서와 AI 검토 정보, 카드와 배경의 구분을 확인했습니다. 아래 이미지는 같은 코드의 실제 브라우저 기록이며, 공식 인터랙션은 저장소 앱에서 확인합니다.
+
+| 탐색 · 390px | 내 지원 메시지 · 390px |
 | --- | --- |
-| 공개 스위치와 DrawerTrigger가 같은 `data-state`를 사용해 실제 공개 상태와 시각 상태가 충돌 | 스위치 상태와 팝업 상태를 분리하고, 확인·취소·Escape 이후 상태와 트리거 포커스 복귀를 다시 확인 |
-| 비어 있는 역량 안내가 실제 입력 값처럼 굵게 표시 | 보조 안내의 일반 굵기로 조정해 실제 값과 구분 |
-| 긴 공개 안내와 프로필 설명의 모바일 줄바꿈 | 좁은 폭에서도 문장·조작을 읽을 수 있도록 정리 |
-| 모집 중과 마감 상태의 배경이 유사 | 녹색·회색 배경을 구분하면서 상태 문구를 유지해 색상만으로 의미를 전달하지 않음 |
-
-위 결과는 검토한 화면·상태에 대한 점검이며 모든 화면의 자동 접근성 감사, 실제 모바일 보조 기술 검증이나 제품 서버의 권한 검증 완료를 뜻하지 않습니다.
-
-## 모바일 화면
-
-이미지는 빠른 리뷰를 위한 기록입니다. 공식 인터랙션은 저장소 앱을 실행해 확인합니다.
-
-| 탐색 · 390px | AI · 390px |
-| --- | --- |
-| ![공모전 카드와 탐색](assets/explore-390.png) | ![AI 추천 카드와 대화](assets/ai-390.png) |
-
-| 탐색 필터 · 390px | 카드 hover · 390px |
-| --- | --- |
-| ![분야와 역할을 선택하는 탐색 필터 팝업](assets/explore-filters-390.png) | ![더 진한 색과 그림자로 구분되는 카드 hover 상태](assets/explore-hover-390.png) |
-
-워크스페이스는 내 팀·내 지원 제목 옆에 작업 아이콘을 배치합니다. 모집 중은 녹색, 모집 마감·정원 마감은 회색 배지로 구분합니다. 카드에서는 역할과 확정 인원을 강조하고, 전체 카드를 누르면 팀 공간으로 이동합니다.
-
-![모집 상태 배경과 역할·인원을 구분한 워크스페이스 팀 카드](assets/workspace-390.png)
-
-| 즉시 선발 확인 · 390px | 확정 팀원 · 390px |
-| --- | --- |
-| ![선발 확인 팝업](assets/selection-390.png) | ![선발 이후 확정 팀원](assets/members-390.png) |
+| ![전체 연결 팀 수와 분야를 표시한 탐색 카드](assets/explore-390.png) | ![본인이 제출한 메시지 확인](assets/applications-390.png) |
 
 | 프로필 입력 · 320px | 팀 생성 · 320px |
 | --- | --- |
-| ![항목별 공개 스위치를 제거한 프로필 입력 화면](assets/profile-320.png) | ![모바일 팀 생성 폼](assets/create-team-320.png) |
-
-| 마스코트 선택 · 390px | 공모전 기본 커버 · 390px |
-| --- | --- |
-| ![작은 설명과 캐릭터 선택지가 있는 파워프렌즈 프로필 이미지 선택](assets/avatar-picker-390.png) | ![이미지가 없는 공모전의 스콘 커버](assets/default-cover-390.png) |
-
-공모전 검색 팝업은 320px에서도 썸네일·이름·주최자·마감과 선택 표시를 함께 확인합니다.
-
-![썸네일이 포함된 공모전 선택 팝업](assets/contest-picker-320.png)
-
-세 탐색 탭의 검색창 AI 아이콘과 프로필 카드의 수정·공개·미리보기 조작은 별도 페이지 제목 없이 사용할 수 있습니다. 공개·비공개 전환은 설명 팝업에서 확인한 뒤 반영되며 항목별 설정은 없습니다. AI의 새 대화는 로그인한 화면의 입력창 왼쪽 아래에 있습니다.
-
-| 검색어 지우기·AI · 320px | 프로필 수정 진입 · 390px |
-| --- | --- |
-| ![검색창 안에 분리된 지우기와 AI 아이콘](assets/search-ai-320.png) | ![기본 정보 카드 상단의 수정·공개 스위치·미리보기](assets/profile-view-390.png) |
-
-![상단 중복 제목 없이 입력창 안에 새 대화를 배치한 AI 화면](assets/ai-welcome-390.png)
-
-학교 인증 안내는 미인증 배지를 눌렀을 때만 표시합니다. 현재 계정의 인증 상태는 바꾸지 않습니다.
-
-![교내 미인증 배지에서 열린 학교 인증 안내 팝업](assets/profile-school-390.png)
+| ![관심 분야 개수와 이름 길이를 표시한 프로필 입력](assets/profile-320.png) | ![공모전 분야를 상속하는 팀 생성](assets/create-team-320.png) |
 
 | 공개 전환 확인 · 390px | 비공개 전환 확인 · 390px |
 | --- | --- |
-| ![공개되는 전체 항목과 지원 팀장 예외를 설명하는 팝업](assets/profile-public-confirm-390.png) | ![검색 제외와 지원 팀장 예외를 설명하는 팝업](assets/profile-private-confirm-390.png) |
+| ![일반 공개와 별도 지원 제출을 설명하는 팝업](assets/profile-public-confirm-390.png) | ![기존 지원과 최신 프로필 AI 검토 유지 설명](assets/profile-private-confirm-390.png) |
 
-| AI 로그인 안내 · 390px | 사람 탐색의 AI 진입 · 390px |
+| 지원자 검토 · 390px | AI 대화 · 390px |
 | --- | --- |
-| ![비로그인 AI 접근 시 로그인으로 연결하는 화면](assets/ai-login-390.png) | ![사람 검색창 안의 AI 아이콘](assets/people-ai-390.png) |
+| ![지원 정보로 요청한 AI 검토 결과](assets/applicant-profile-390.png) | ![최대 세 개 공모전 추천 카드](assets/ai-390.png) |
 
-지원받은 팀장은 지원자 상세에서 공개 설정과 관계없이 등록된 전체 프로필을 확인합니다.
+![초과 입력을 보존하고 입력창 외곽선 아래에 오류를 표시한 AI 화면](assets/ai-overflow-320.png)
 
-![지원받은 팀장이 확인하는 지원자 프로필](assets/applicant-profile-390.png)
+## 남은 범위
 
-## 서비스명 워드마크
-
-2026-10-19에 일반 서비스명 텍스트를 전용 SVG 레터링으로 바꿨습니다. 둥근 한글 획과 `온`의 전원 모양을 사용하며 기존 마스코트는 유지합니다. 헤더·시작 화면·로그인 소개에 같은 원본을 적용했습니다. 벡터는 폰트·외부 참조·래스터 없이 독립적으로 표시됩니다.
-
-320·375·390·430px에서 이미지 로드·가로 넘침 없음·로고의 탐색 이동·알림 열기/닫기를 확인했습니다. 320px 로그인에서도 로고와 `탐색으로` 링크가 겹치지 않습니다. 링크의 접근성 이름과 44px 이상의 터치 영역을 유지합니다. 변경 파일 ESLint·Prettier·TypeScript·빌드와 문서 검사를 수행했으며, 자산·표현만 바꿔 동작 테스트를 추가하거나 전체 133개 테스트를 재실행하지 않았습니다. 이 변경의 JS 빌드는 676.03kB로 기존 번들 경고는 유지됩니다.
-
-| 탐색 · 390px | 로그인 · 320px |
-| --- | --- |
-| ![둥근 한글 SVG 워드마크가 적용된 탐색 헤더](assets/wordmark-explore-390.png) | ![워드마크와 탐색 링크를 함께 표시한 좁은 로그인 헤더](assets/wordmark-login-320.png) |
-
-## 공모전 탐색 카드의 포스터 배치
-
-2026-10-19에 공모전 카드를 왼쪽 세로 포스터와 오른쪽 요약으로 바꿨습니다. 이미지 아래 문구를 없애고 제목·분야·주최자 순서로 배치했습니다. 우하단에는 팀 아이콘과 현재 모집 중인 팀 수만 표시합니다. 별도 상세보기 문구·화살표와 접수 마감·참가 대상 요약을 제거했으며, D-day와 상세 화면의 정확한 마감일·참가 대상은 유지합니다.
-
-320·375·390·430px에서 가로 넘침·런타임 오류 없음, 카드 전체 클릭·키보드 Enter 이동·복귀, 녹색 hover·포커스·누름 상태를 확인했습니다. 320px의 긴 제목·주최자와 150% 글꼴에서 내용이 겹치지 않고 카드가 늘어납니다. 기본 이미지와 이미지 로드 실패 대체를 확인했고, 브라우저에서만 제공한 2:3 포스터 fixture로 원본 비율·테두리가 잘리지 않는지 확인했습니다. 현재 정사각형 예시 커버는 포스터 영역 안에 여백을 두고 표시합니다.
-
-탐색 테스트 29개, 변경 파일 ESLint·Prettier, TypeScript·프로덕션 빌드를 통과했습니다. 독립 화면 검토에서 차단 이슈가 없었고 `impeccable detect --scope layout`의 변경 전·후 기계 검사도 발견 사항이 없었습니다. 상세·팀 탐색·사람 탐색·공모전 선택창의 레이아웃은 변경하지 않았습니다.
-
-## 탐색 페이지 번호와 공모전 상세의 팀 목록
-
-2026-10-19에 사람 목록 제목을 `함께할 사람`으로 바꾸고 공모전·팀·사람 탐색에 페이지 번호 이동을 적용했습니다. 현재 레퍼런스는 한 페이지 6개이며 운영 페이지 크기·API·DB 집계 계약은 별도입니다. 조건 변경 시 1페이지로 돌아가고, 상세 왕복 시 조건·페이지를 유지합니다. 비로그인 사람 탐색에는 결과 수와 페이지 조작을 표시하지 않습니다.
-
-공모전 상세에는 해당 공모전의 팀 카드가 바로 표시됩니다. 팀 찾기 버튼을 제거하고 AI·생성(+)을 44px 아이콘으로 배치했습니다. 팀이 없으면 첫 팀 생성을 권하며, 개인 전용 공고는 준비 모임으로 안내합니다. 마감 공고에서는 생성·AI·생성 권유를 숨기고 공개 정보는 유지합니다. 팀 카드는 탐색과 공통 컴포넌트를 사용하며 상세에서는 공모전명을 반복하지 않습니다.
-
-- Vitest 10개 파일·155개 테스트: 다수 결과의 페이지 분리, 조건·복귀 경로 유지, 조건 변경 초기화, 잘못된 페이지 보정, 해당 공모전 팀만 표시, 아이콘 접근성 이름과 빈 상태를 포함합니다.
-- ESLint·Prettier·TypeScript·프로덕션 빌드를 통과했습니다. 기존 단일 JS 청크 크기 경고(680.13kB)는 유지됩니다.
-- 기존 `check:ui` 흐름은 Chromium 320·390·430px에서 통과했습니다. 추가 독립 브라우저 검토에서 상세의 팀 목록·열린/닫힌 공고·개인 전용·빈 결과·사람 제목과 페이지 조작을 확인했습니다. 가로 넘침·런타임 오류가 없고 각 조작 영역은 44×44px입니다.
-- 브라우저 응답만 임시로 19개 팀으로 확장해 4페이지·페이지 이동·원래 공모전/탐색 복귀 정보를 확인했습니다. 2페이지 이동 후 팀 목록 제목으로 포커스가 이동하고 상단 88px 여백이 유지됩니다. 320px의 150% CSS 글꼴 확대에서도 가로 넘침이 없었습니다. 이 fixture는 앱 데이터나 배포에 포함하지 않습니다.
-- 선택 페이지 글자색의 스타일 경합을 수정했습니다. 최종 흰 글자/녹색 배경 대비는 5.36:1이며 전체/현재 페이지 설명을 숫자 아래에 표시합니다. layout detector 전후 발견 사항은 없었습니다.
-
-| 공모전 상세의 팀 · 390px | 열린 공고의 빈 팀 · 390px |
-| --- | --- |
-| ![공모전 상세에 직접 표시한 팀 카드와 AI·생성 아이콘](assets/contest-teams-390.png) | ![첫 팀 만들기를 안내하는 빈 팀 영역](assets/contest-teams-empty-390.png) |
-
-| 사람 탐색 · 390px | 여러 페이지 검증 · 320px |
-| --- | --- |
-| ![함께할 사람 제목과 페이지 번호](assets/people-pagination-390.png) | ![브라우저 임시 19개 팀 fixture로 확인한 페이지 조작과 현재 페이지](assets/pagination-320.png) |
+- 실제 계정 발급·유출 비밀번호 DB·세션, 서버 권한·영구 저장·기기 동기화·다중 사용자 동시 선발·LLM 실행은 별도 제품 구현입니다.
+- 학사 운영 목록·정규 식별자·기존 데이터 전환, 별도 매칭 상태 의미, 모집 종료 후 선발·재개 등 미정 항목은 [화면별 남은 결정](screens.md#remaining-decisions)을 따릅니다.
+- 실제 모바일 기기·소프트 키보드·보조 기술 및 네트워크 성능 전체를 검증한 결과는 아닙니다. 제품 명세의 AC 완료 체크를 변경하지 않습니다.

diff --git a/docs/design/handoff.md b/docs/design/handoff.md
@@ -2,7 +2,7 @@
 
 팀의 공식 화면·인터랙션 기준은 저장소의 `design-reference/`입니다. 제품 개발에서는 같은 브랜치·커밋의 레퍼런스와 명세를 참조합니다. 배포된 GPT Sites가 이후 변경되더라도 저장소에 반영되지 않은 내용을 자동으로 공식 기준으로 사용하지 않습니다.
 
-프로필 전체 공개·비공개, 지원받은 팀장의 전체 현재 프로필 열람 예외, AI 전체 로그인 전용 정책은 [문서 전용 PR #75](https://github.com/wejo-team/sku-dreamon/pull/75)에 있으며 아직 병합 전입니다. 이 레퍼런스는 해당 정책을 반영한 화면 참고 자료이므로 제품 구현 전 선행 정책 PR의 검토·병합 상태를 확인합니다.
+이번 레퍼런스 변경은 [선행 문서 PR #93](https://github.com/wejo-team/sku-dreamon/pull/93)과 [#77 최신 결정](https://github.com/wejo-team/sku-dreamon/issues/77#issuecomment-6260435650)을 기준으로 합니다. 새 입력 계약·프로필 공개 조건·공고와 정원·AI 검토·알림 정책을 담당 명세에서 먼저 확인합니다. 문서 검토, 디자인 반영, 실제 제품 구현과 배포 완료는 각각 구분합니다.
 
 ## 로컬 실행
 
@@ -19,8 +19,8 @@ npm run dev
 
 | 항목 | 값 |
 | --- | --- |
-| 아이디 | `dreamon-demo` |
-| 비밀번호 | `dreamon-demo` |
+| 아이디 | `dreamondemo` |
+| 비밀번호 | `DreamonReview2026!` |
 | 시작 경로 | `/` → `/design-preview/login?returnTo=%2Fdesign-preview%2Fexplore` |
 | 탐색 | `/design-preview/explore` |
 | AI | `/design-preview/ai` |
@@ -39,6 +39,9 @@ npm run dev
 | [UI 컴포넌트](../../design-reference/src/components/ui/button.tsx) | shadcn/ui 기반 버튼·입력·스위치·Drawer·채팅 구성 요소 |
 | [예시 데이터](../../design-reference/src/features/design-preview/data.ts) | 화면 확인용 공모전·팀·사용자·지원 데이터와 로컬 타입 |
 | [메모리 상태](../../design-reference/src/features/design-preview/PreviewProvider.tsx) | 프로필·로그인 여부·지원·선발 등 현재 탭의 로컬 상태 |
+| [인증 입력 규칙](../../design-reference/src/features/design-preview/auth-policy.ts) | 아이디 정규화·비밀번호 NFC/길이·공개 테스트 값·일부 흔한 비밀번호 예시 차단 |
+| [공고 상태](../../design-reference/src/features/design-preview/contest-state.ts) | 원문 시각·시간대 우선의 접수 상태, 마감 보완 안내·공식 인원 조건 |
+| [알림 발생 기록](../../design-reference/src/features/design-preview/notification-state.ts) | 로컬 업무 변경별 생성·발생 건과 수신자 중복 제거·읽음 이력 |
 | [모의 대화 응답](../../design-reference/src/features/design-preview/chat-demo.ts) | 실제 모델 호출 없이 대화·추천 카드 동작 확인 |
 | [기능 명세](../specs/README.md) | 참여 조건·공개 범위·상태 전환과 제품 완료 조건 |
 | [제품 프론트 가이드](../development/frontend.md) | `frontend/`에 구현할 API·폼·상태·컴포넌트 책임 |
@@ -48,12 +51,17 @@ npm run dev
 ## 데이터·인증·AI의 실제 범위
 
 - 데이터는 메모리에 있으므로 새로고침하면 초기 로그인·프로필·팀·지원 상태로 돌아갑니다. 다른 브라우저나 팀원의 화면과 공유되지 않습니다. 탭 이동 중 유지되는 상태도 영구 저장을 뜻하지 않습니다.
-- 로그인은 고정 문자열을 검사하며 계정 발급·비밀번호 해시·서버 세션을 제공하지 않습니다. 가입 화면의 입력은 인터랙션 확인용이고 새로 가입한 아이디·비밀번호로 실제 로그인할 수 있는 계정을 만들지 않습니다.
+- 로그인은 고정 문자열을 검사하며 계정 발급·비밀번호 해시·서버 세션을 제공하지 않습니다. 가입 화면은 아이디를 ASCII 영문 소문자·숫자 4~24자로 정규화하고, 비밀번호는 NFC 후 코드 포인트 15~128자·공백 보존을 적용합니다. 보기/숨기기·붙여넣기·자동완성을 허용합니다. 중복 확인은 공개 테스트 아이디에 한정하며 흔한 비밀번호 4개 fixture만 차단합니다. 실제 유출 비밀번호 목록·갱신이나 새 계정 등록을 구현한 것이 아니며 가입한 값으로 로그인할 수 없습니다.
 - 지원·취소·선발·정원·팀 공간은 로컬 상태 전환을 확인합니다. 실제 여러 사용자 간 동시 요청, 서버 권한 검사·트랜잭션·DB 보존은 제품에서 구현해야 합니다.
-- 프로필 공개 상태는 기본 비공개이며 하나의 스위치로 전체 등록 항목에 적용합니다. 전환 Drawer에서 확인해야 저장하고 취소·닫기는 현재 상태를 유지합니다. 공개이면 로그인한 일반 사용자의 검색·AI 사람 탐색·상세에서 학사·관심·역량·경험·소개·활동 가능 시간·포트폴리오를 확인하며, 비공개이면 일반 검색·상세에서 제외합니다. 지원받은 팀장은 비공개여도 전체 현재 프로필을 보지만 일반 팀원은 이 예외를 갖지 않습니다. 인증 정보·미수집 연락처는 공개 항목이 아닙니다.
-- AI는 로그인한 세션에서 예시 데이터로 로컬 응답을 만드는 UI입니다. 로그아웃하면 화면의 대화·초안도 제거하며, 공모전·팀·사람 검색창 모두 AI 진입 아이콘을 제공합니다. 제품 추천은 [LLM 기반](../specs/matching.md)으로 변경됐지만 모델·검색·실행·API·저장 등 내부 아키텍처는 TBD입니다. 로컬 응답 코드를 제품 추천 알고리즘으로 복사하지 않습니다. 팀장의 비공개 프로필 열람 권한을 외부 LLM 전송·추천 사용 권한으로 확대하지 않으며, 외부 포트폴리오 내용 수집·분석도 제공하지 않습니다.
-- 알림의 읽음 상태·탐색 결과도 로컬 상태입니다. 푸시·이메일·실시간 서버 이벤트를 제공하지 않습니다.
-- 공고·인물·팀·학사 선택지는 화면 확인용 데이터입니다. 학사 데이터의 운영 연도·정규 코드와 실제 공고의 출처·조건은 담당 명세대로 검증합니다. 레퍼런스의 외부 링크를 실제 공고가 존재하거나 접수 가능하다는 근거로 사용하지 않습니다.
+- 프로필은 기본 비공개이며 하나의 스위치가 등록된 모든 항목에 적용됩니다. 전환 Drawer 확인 후 저장하며 취소·닫기·실패는 기존 상태를 유지합니다. **신규 팀 지원은 공개 상태에서만 제출**합니다. 비공개 사용자는 같은 공개 팝업을 거쳐 저장 후 현재 지원 조건을 다시 확인하며 자동 접수하지 않습니다. 공개면 일반 로그인 사용자의 사람 검색·AI 사람 추천·상세에서 전체 항목을 볼 수 있고 비공개면 제외합니다.
+- 지원 후 비공개 전환은 기존 지원·팀 소속을 바꾸지 않습니다. 해당 지원을 받은 팀장은 전체 현재 프로필을 직접 보고 AI 검토에 최신 프로필을 반영할 수 있습니다. 일반 팀원·미지원 팀장·일반 AI 사람 추천으로 이 권한을 확대하지 않습니다. 인증 정보·미수집 연락처·외부 포트폴리오 내용 수집은 포함하지 않습니다. 화면은 이 관계를 모의 처리하며 실제 모델 입력 필드·보존·삭제는 여전히 설계 대상입니다.
+- 프로필은 이름 1~50자, 관심 분야 1~3개, 희망 역할 1~2개를 필수로 받습니다. 학적·학년은 선택, 역량은 목록 내 개수 상한 없이 선택합니다. 경험은 미입력/경험 없음/최대 500자 서술, 자기소개는 300자, 포트폴리오 제목은 50자까지입니다. 기타·보충 설명 입력은 제거합니다. 앞뒤 공백을 제거한 뒤 검증하며 초과 입력을 보존해 수정하도록 안내합니다. 비밀번호 외 Unicode 계수는 제품 계약 TBD로, 레퍼런스는 코드 포인트를 사용합니다.
+- 주당 참여 가능 시간은 **모든 참여 프로젝트를 합산한 자기신고 예상 총량**으로 `5시간 미만 / 5~10시간 미만 / 10~20시간 미만 / 20시간 이상` 중 하나를 선택하거나 미입력으로 둡니다. 팀별 약속·잔여 시간·일정 교집합이 아닙니다. 기존 요일별 시간 입력과 팀 생성 시간 입력을 제공하지 않으며, 팀 공간의 일정 조율은 후속 기능입니다. 저장 코드·실제 기존 데이터 전환은 미정입니다.
+- 공모전은 공통 관심 분야를 복수 사용하고 참가 대상을 대학생/일반인/제한 없음/미확인으로 구분합니다. 대학생·일반인은 함께 선택 가능하고 제한 없음·미확인은 단독 값입니다. 개인/팀 참가 유형과 준비 모임 예외를 제거하며, 모든 팀 목표 정원은 공고의 최소·최대 인원을 따릅니다. 고정 N명은 N명, 범위·상한 없음은 팀장이 직접 입력하고 정원 1명은 추가 모집하지 않습니다. 공모전 카드 숫자는 모집 상태와 관계없이 연결된 모든 팀 수입니다.
+- AI는 로그인한 세션에서 예시 데이터로 로컬 응답을 만드는 UI입니다. 사용자 메시지는 최대 1,000자이고 초과 입력을 자르지 않습니다. 답변당 추천 카드는 종류 합계 최대 3개이며 같은 대화에서 추가 요청할 수 있습니다. 새 대화는 현재 메시지·초안을 초기화하고 과거 대화 목록은 제공하지 않습니다. 로그아웃하면 대화·초안도 제거합니다. 제품 추천은 [LLM 기반](../specs/matching.md)이지만 내부 아키텍처는 TBD이며 로컬 응답 코드를 제품 추천 알고리즘으로 복사하지 않습니다.
+- 팀장의 기존 지원자 AI 검토 결과 확인·재요청은 모집 마감·정원 충족 후에도 허용합니다. 새 선발 후보는 유효한 지원 완료·검토 중만 포함하고 선발·미선발·취소는 제외합니다. 기존 유효 지원자는 비공개 전환만으로 제외하지 않으며 신규 지원 제한·정원 초과 선발 금지는 유지합니다.
+- 알림은 성공한 업무 변경을 기준으로 내 지원 상태 변경/팀장에게 온 신규 지원 두 계열을 생성합니다. 발생 건·수신자 조합으로 중복을 막고 다음 상태는 새 미읽음 항목으로 추가하며 이전 이력을 유지합니다. 마감 알림은 제외합니다. 메모리의 읽음·발생 이력이며 영구 보존·기기 동기화·푸시·이메일·실시간 서버 이벤트를 구현하지 않습니다. 알림함에서 브라우저 뒤로 가기는 현재 화면을 떠나기 전에 알림함을 닫습니다.
+- 공고·인물·팀·학사 선택지는 화면 확인용 데이터입니다. 학사 종속 선택은 같은 소속 관계의 유효값을 유지하고 다른 관계로 이동하면 무효 하위값만 초안에서 비우며 저장·취소를 구분합니다. 현재 학사 fixture는 소속별 문자열이므로 다른 부모 아래 같은 이름을 동일 학과·전공으로 연결하지 않습니다. 학사 데이터의 운영 연도·정규 코드와 실제 공고의 출처·조건은 담당 명세대로 검증합니다. 레퍼런스의 외부 링크를 실제 공고가 존재하거나 접수 가능하다는 근거로 사용하지 않습니다.
 - 실제 제품 시연의 계정·데이터·AI 연동 안내는 [시연 기준](../specs/sprint-1.md#web-demo)을 따릅니다. 공식 디자인의 제품 문구와 모의 구현에 관한 개발자 설명을 구분합니다.
 
 ## 제품 구현에 옮기는 순서

diff --git a/docs/design/tokens.md b/docs/design/tokens.md
@@ -82,7 +82,7 @@
 
 워크스페이스는 내 팀·내 지원 콘텐츠 제목, 개수, 작업 아이콘을 한 줄로 배치합니다. 내 지원·팀 만들기 링크는 각각 44px 조작 영역과 행동 이름을 나타내는 `aria-label`·`title`을 제공하고, 팀 만들기는 녹색 주요 버튼으로 강조합니다. 내 지원 화면의 목록 아이콘은 `aria-current`와 녹색으로 현재 위치를 표시합니다. 팀 카드는 전체 링크를 유지하고 내 역할·확정 인원과 같은 행 우하단의 `ChevronRight`로 이동을 나타냅니다. 화살표는 장식으로 처리하며, 카드 링크의 접근성 이름에 팀 이름과 `팀 공간으로`를 포함합니다. 이 카드의 이동 문구만 생략하고 상세·선발 이후의 명시적 이동 버튼은 유지합니다.
 
-내 프로필 보기에서는 첫 기본 정보 카드의 이름·아바타 옆에 `SquarePen` 수정 아이콘을 배치합니다. 44px 조작 영역과 `프로필 수정` 접근성 이름·title을 제공하며 공개/비공개 스위치·눈 모양 미리보기를 같은 조작 묶음에 배치합니다. 반복되는 공개 안내 행과 상시 학교 인증 설명은 표시하지 않습니다. 공개 스위치의 접근성 이름은 `프로필 공개`이며, 전체 프로필 공개·비공개를 바꾸기 전에 설명 Drawer와 확인·취소 버튼을 제공합니다. 확인 전 스위치는 기존 값을 유지하고 취소·Escape·바깥 닫기로 되돌릴 수 있습니다. 항목별·포트폴리오별 스위치는 두지 않습니다. 등록 시간·포트폴리오를 포함한 전체 항목 공개와 지원 팀장 예외는 [정책 문서 PR #75](https://github.com/wejo-team/sku-dreamon/pull/75)의 병합 전 변경을 참고합니다. AI의 `새 대화`는 입력창 왼쪽 도구 아이콘으로 배치하고 `type="button"`을 사용해 메시지 전송과 구분합니다.
+내 프로필 보기에서는 첫 기본 정보 카드의 이름·아바타 옆에 `SquarePen` 수정 아이콘을 배치합니다. 44px 조작 영역과 `프로필 수정` 접근성 이름·title을 제공하며 공개/비공개 스위치·눈 모양 미리보기를 같은 조작 묶음에 배치합니다. 반복되는 공개 안내 행과 상시 학교 인증 설명은 표시하지 않습니다. 공개 스위치의 접근성 이름은 `프로필 공개`이며, 전체 프로필 공개·비공개를 바꾸기 전에 설명 Drawer와 확인·취소 버튼을 제공합니다. 확인 전 스위치는 기존 값을 유지하고 취소·Escape·바깥 닫기로 되돌릴 수 있습니다. 항목별·포트폴리오별 스위치는 두지 않습니다. 등록 시간·포트폴리오를 포함한 전체 항목 공개와 지원 팀장 예외는 [현재 공개·지원 정책](../specs/profile.md#visibility)을 참고합니다. AI의 `새 대화`는 입력창 왼쪽 도구 아이콘으로 배치하고 `type="button"`을 사용해 메시지 전송과 구분합니다.
 
 팝업은 열기·닫기·Escape·바깥 영역·포커스 복귀를 확인하고, 폼의 적용과 취소를 구분합니다. 프로필 공개 스위치는 라벨과 설명에서 누구에게 공개되는지 드러내야 합니다. 화면 제목·입력 라벨·오류 메시지·로딩·빈 상태를 유지하고 색만으로 상태를 전달하지 않습니다. 긴 한국어 텍스트·큰 글꼴·화면 확대·작은 높이·키보드가 열린 상태·감소된 모션 설정에서 조작이 가능한지 확인합니다.
 

diff --git a/design-reference/README.md b/design-reference/README.md
@@ -2,6 +2,8 @@
 
 모바일 화면과 인터랙션을 확인하는 독립 실행 앱입니다. 프론트엔드 개발의 디자인 기준은 이 저장소의 코드와 [공식 디자인 안내](../docs/design/README.md)이며 GPT Sites 배포본은 기준 원본이 아닙니다.
 
-전체 프로필 공개·비공개와 지원 팀장 예외, AI 로그인 전용 정책은 병합 전인 [문서 PR #75](https://github.com/wejo-team/sku-dreamon/pull/75)를 함께 확인합니다.
+입력 계약·프로필 공개 조건·주당 시간·공고와 팀 정원·AI 검토·알림은 [선행 문서 PR #93](https://github.com/wejo-team/sku-dreamon/pull/93)과 담당 명세를 기준으로 합니다. 신규 지원은 공개 프로필만 가능하며, 이후 비공개 전환해도 기존 지원과 해당 팀장의 최신 프로필 기반 AI 검토는 유지합니다.
+
+로컬 확인 계정은 `dreamondemo` / `DreamonReview2026!`입니다. 공개된 UI 확인용 고정 문자열이며 실제 계정·인증 비밀이 아닙니다.
 
 실행 방법, 테스트 계정, 화면별 명세와 제품 구현으로 옮기는 방법은 [개발 인계](../docs/design/handoff.md)를 확인하세요. 이 앱은 메모리의 예시 데이터와 모의 응답으로 동작하며 실제 인증·API·LLM을 연결하지 않습니다.
